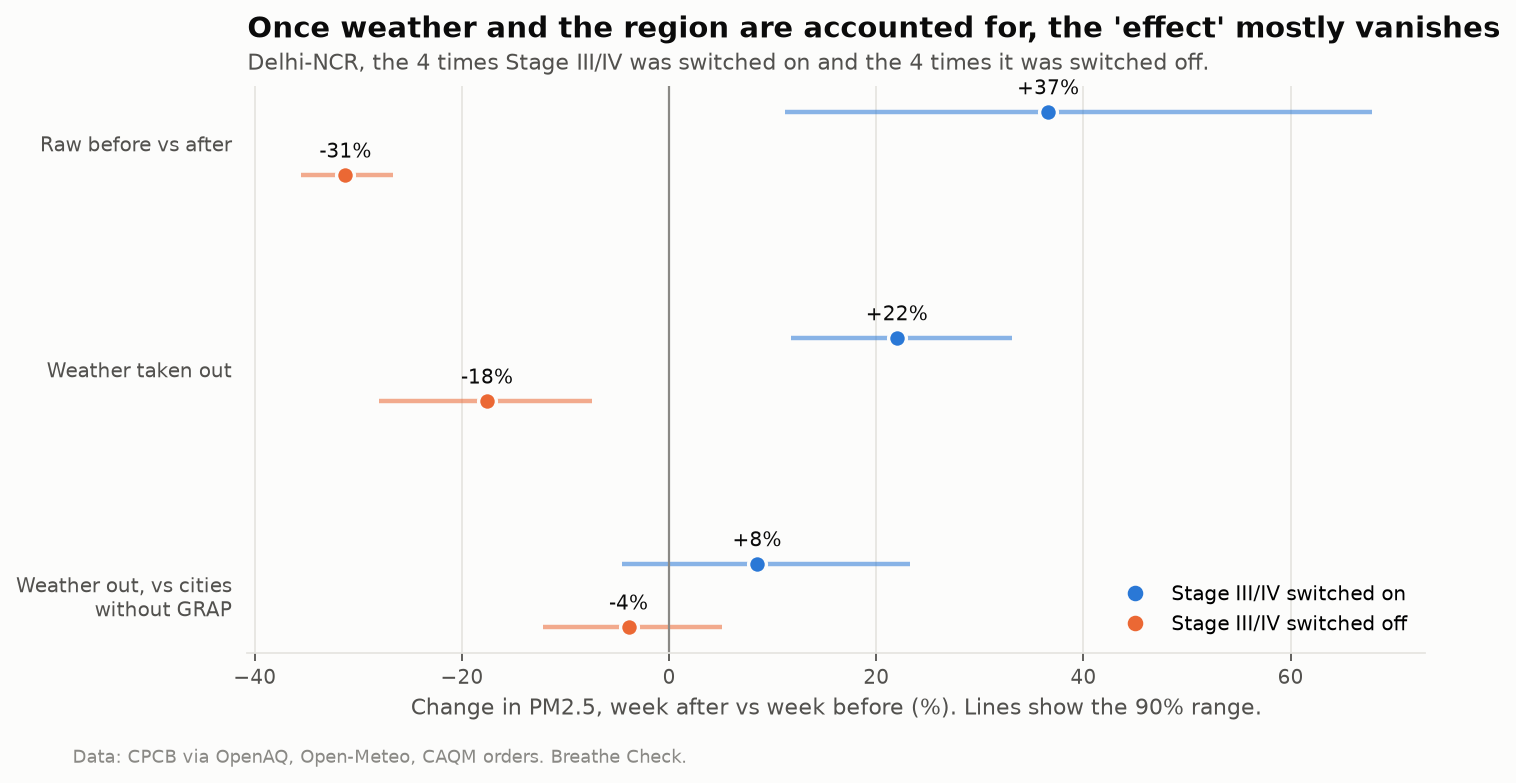
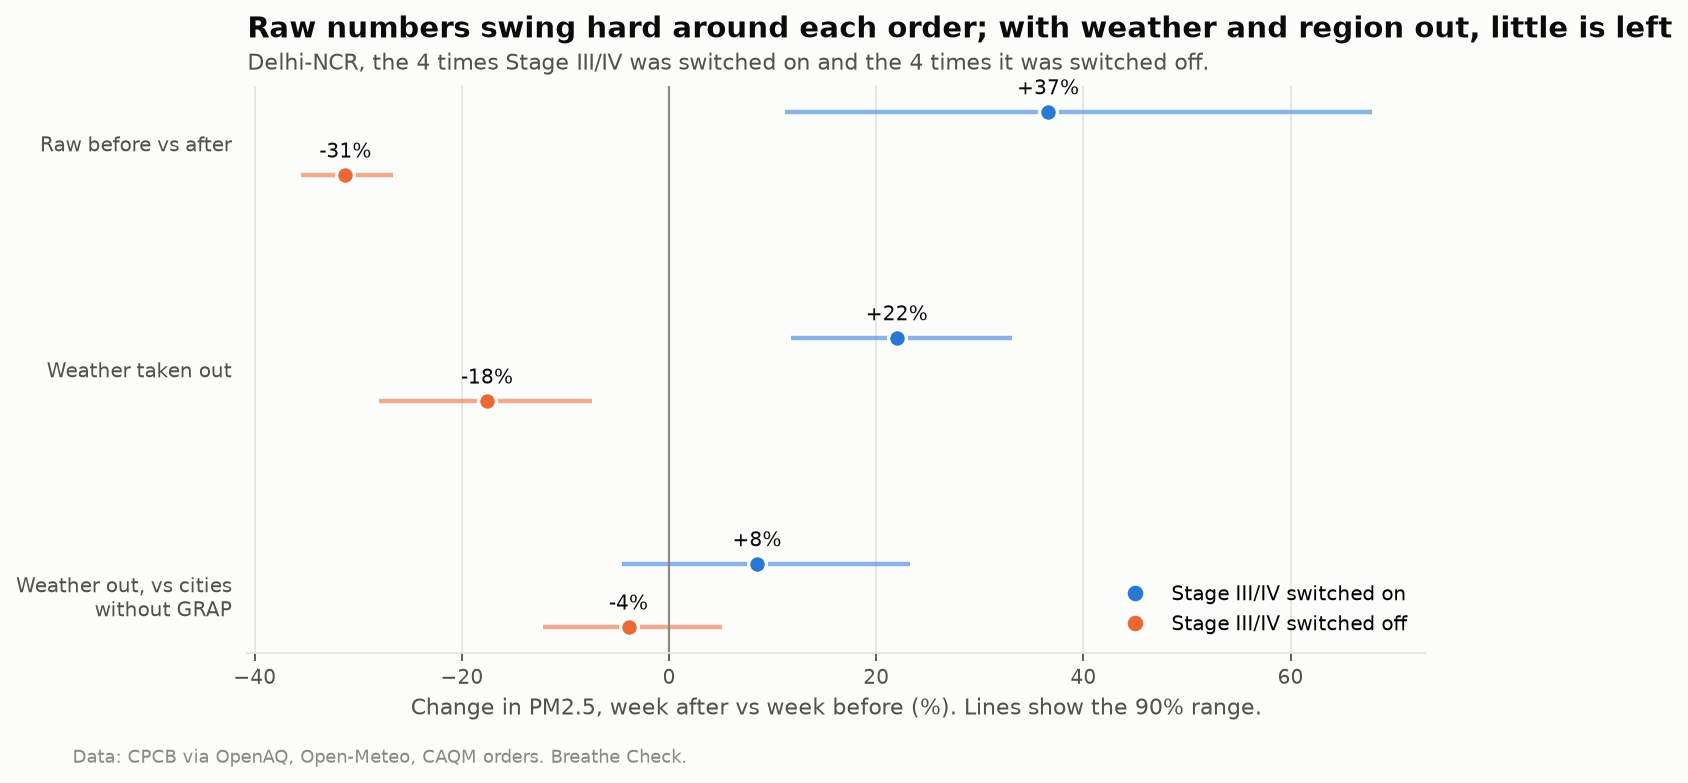
fix: GRAP step chart title that never got updated in Part 7

diff --git a/src/breathe_check/analysis/grap_charts.py b/src/breathe_check/analysis/grap_charts.py
@@ -52,7 +52,8 @@ def plot_three_steps(on: list, off: list):
     ax.set_xlabel("Change in PM2.5, week after vs week before (%). Lines show the 90% range.")
     ax.legend(loc="lower right", fontsize=9)
     ax.set_title(
-        "Once weather and the region are accounted for, the 'effect' mostly vanishes", pad=22
+        "Raw numbers swing hard around each order; with weather and region out, little is left",
+        pad=22,
     )
     style.subtitle(
         ax,
